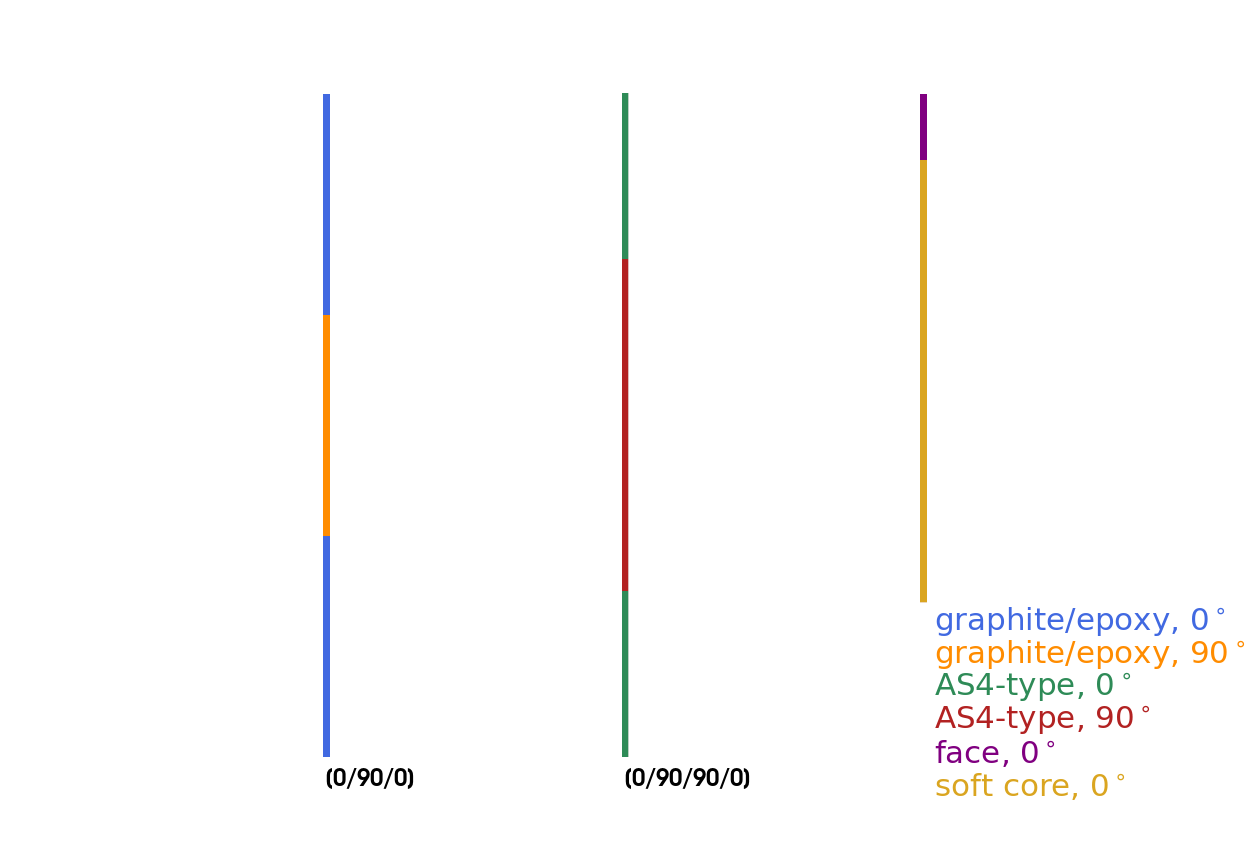
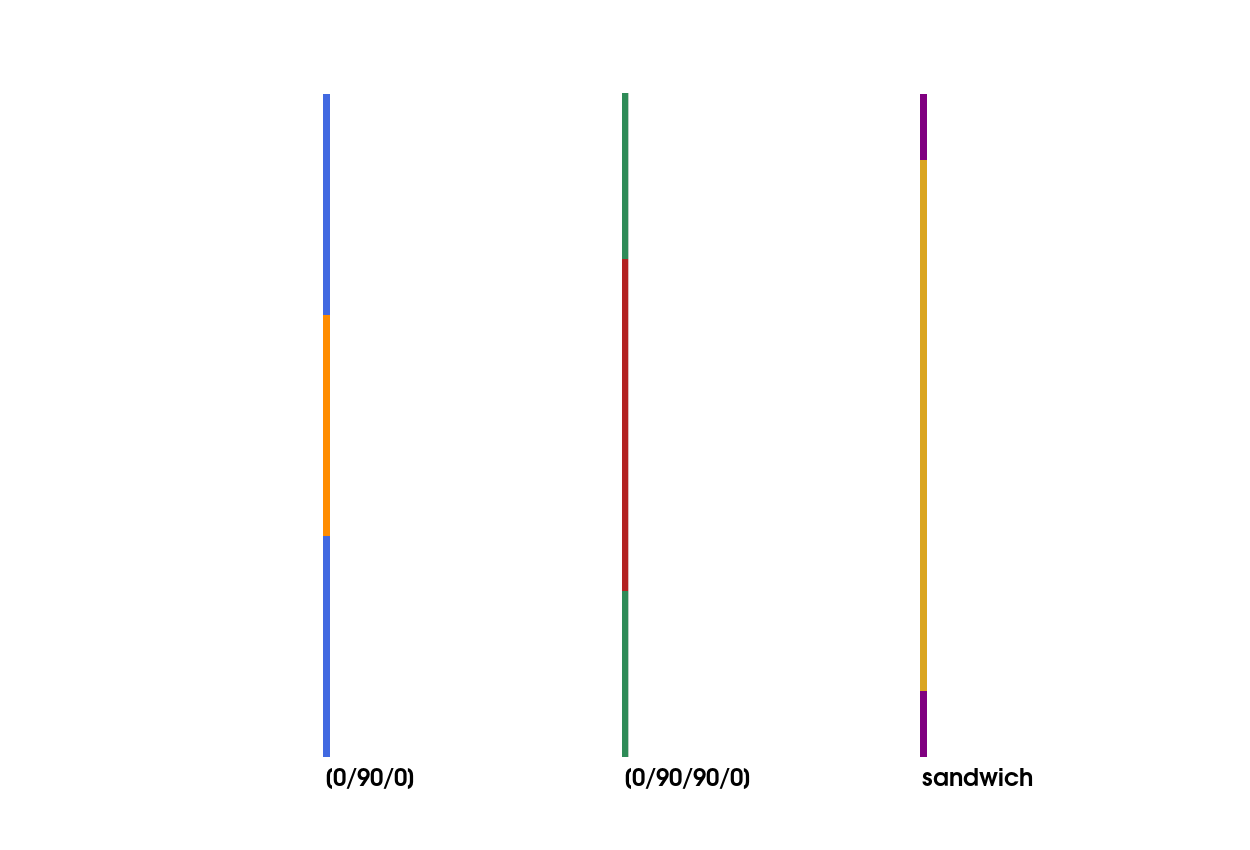
SG mesh renders: drop legend (colour key lives in the paper captions)

Changed region(s): [[0.7176, 0.7035, 0.9984, 0.9482]]

diff --git a/examples/rm_thickness/render_sg_mesh.py b/examples/rm_thickness/render_sg_mesh.py
@@ -50,10 +50,6 @@ def figure(names, labels, fname):
             pl.add_mesh(seg, color=groups[key], line_width=7)
         pl.add_point_labels([(x, 0, -0.05 * hmax)], [lab], font_size=24,
                             shape=None, always_visible=True, show_points=False)
-    pl.add_legend([(f"{NICE.get(m, m)}, {ang:g}$^\\circ$", c)
-                   for (m, ang), c in groups.items()],
-                  bcolor='white', border=True, size=(0.30, 0.035 * len(groups) + 0.03),
-                  loc='lower right')
     pl.camera_position = 'xz'
     pl.enable_parallel_projection()
     pl.camera.zoom(1.05)
